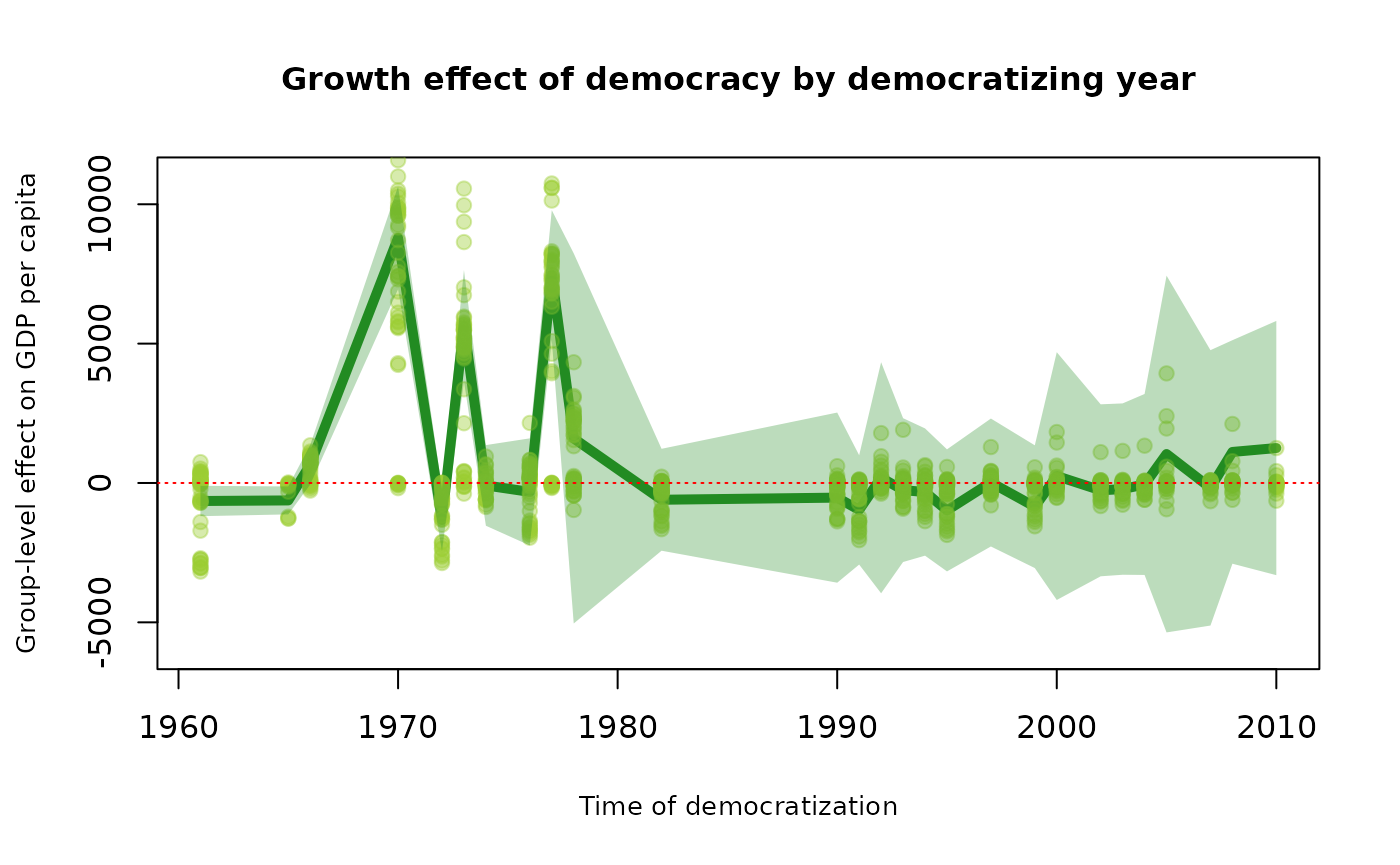
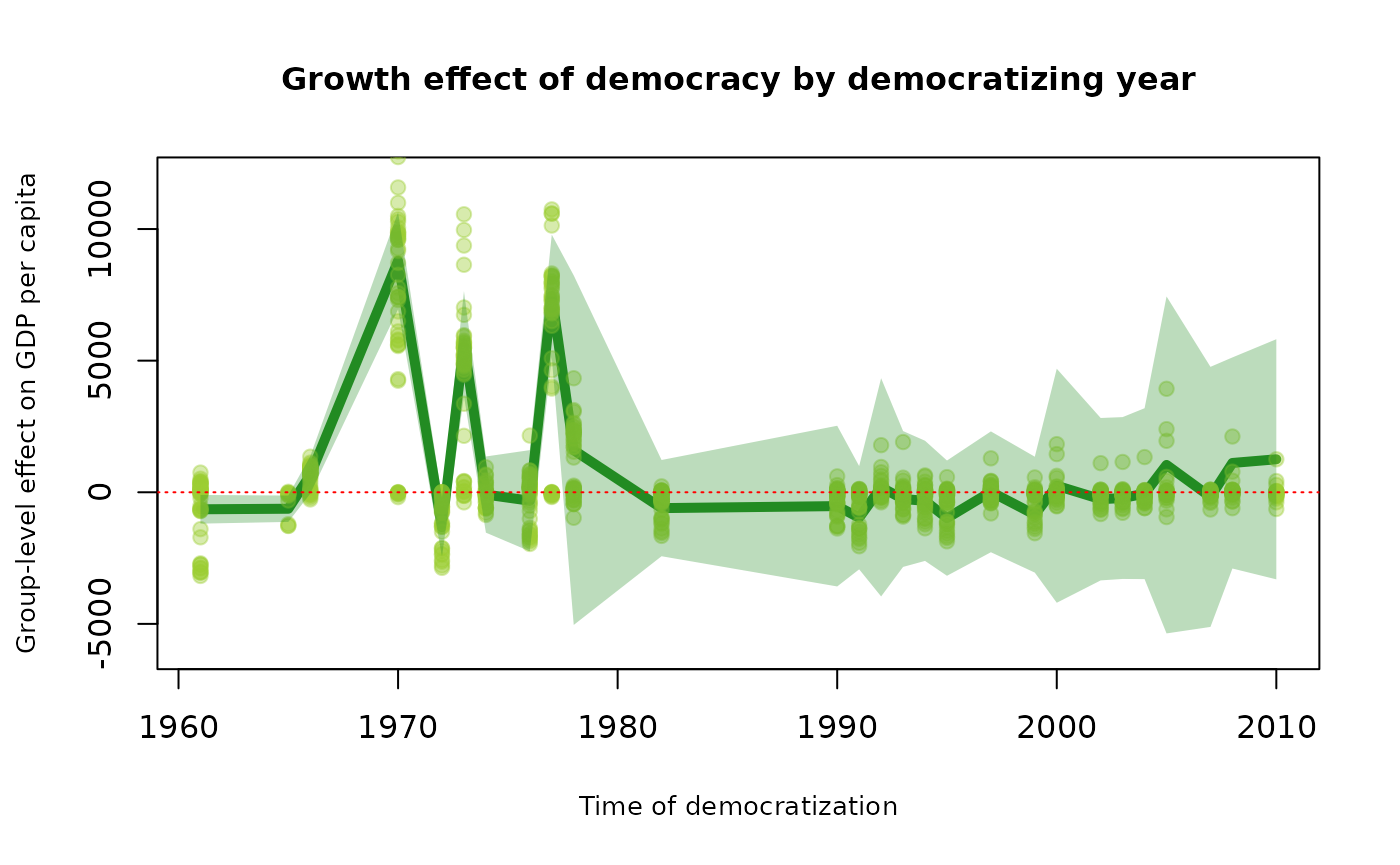
Deploying to gh-pages from @ ransiw/didwrappers@42546798f3a885ff8d297b9c9ec411d032090533 🚀

diff --git a/articles/my-article.html b/articles/my-article.html
@@ -174,7 +174,7 @@ that were aggregated to produce the group-level estimates.</p>
 <div class="sourceCode" id="cb9"><pre class="downlit sourceCode r">
 <code class="sourceCode R"><span><span class="fu"><a href="https://rdrr.io/r/graphics/plot.default.html" class="external-link">plot</a></span><span class="op">(</span><span class="va">group_effects</span><span class="op">$</span><span class="va">egt</span>, <span class="va">group_effects</span><span class="op">$</span><span class="va">att.egt</span>, col<span class="op">=</span><span class="st">"forestgreen"</span>, lwd<span class="op">=</span><span class="fl">5</span>,</span>
 <span>     type <span class="op">=</span> <span class="st">"l"</span>,</span>
-<span>     ylim <span class="op">=</span> <span class="fu"><a href="https://rdrr.io/r/base/c.html" class="external-link">c</a></span><span class="op">(</span><span class="op">-</span><span class="fl">6000</span>,<span class="fl">11000</span><span class="op">)</span>,</span>
+<span>     ylim <span class="op">=</span> <span class="fu"><a href="https://rdrr.io/r/base/c.html" class="external-link">c</a></span><span class="op">(</span><span class="op">-</span><span class="fl">6000</span>,<span class="fl">12000</span><span class="op">)</span>,</span>
 <span>     ylab <span class="op">=</span> <span class="st">"Group-level effect on GDP per capita"</span>,</span>
 <span>     xlab <span class="op">=</span> <span class="st">"Time of democratization"</span>,</span>
 <span>     main <span class="op">=</span> <span class="st">"Growth effect of democracy by democratizing year"</span>,</span>
@@ -267,63 +267,90 @@ group. We could look at this group in the years 1969 and 1970. First we
 look at the treatment group in 1970. There are 5 countries in the
 treatment group.</p>
 <div class="sourceCode" id="cb17"><pre class="downlit sourceCode r">
-<code class="sourceCode R"><span><span class="va">demgdp</span><span class="op">[</span><span class="va">demgdp</span><span class="op">$</span><span class="va">YearFirstDemocracy</span><span class="op">==</span><span class="fl">1970</span> <span class="op">&amp;</span> <span class="va">demgdp</span><span class="op">$</span><span class="va">year</span> <span class="op"><a href="https://rdrr.io/r/base/match.html" class="external-link">%in%</a></span> <span class="fu"><a href="https://rdrr.io/r/base/c.html" class="external-link">c</a></span><span class="op">(</span><span class="fl">1969</span>,<span class="fl">1970</span><span class="op">)</span>,<span class="fl">1</span><span class="op">:</span><span class="fl">5</span><span class="op">]</span></span>
-<span><span class="co">#&gt; <span style="color: #949494;"># A tibble: 6 × 5</span></span></span>
-<span><span class="co">#&gt;   country_name wbcode  year gdppercapitaconstant2000us   dem</span></span>
-<span><span class="co">#&gt;   <span style="color: #949494; font-style: italic;">&lt;chr&gt;</span>        <span style="color: #949494; font-style: italic;">&lt;chr&gt;</span>  <span style="color: #949494; font-style: italic;">&lt;dbl&gt;</span>                      <span style="color: #949494; font-style: italic;">&lt;dbl&gt;</span> <span style="color: #949494; font-style: italic;">&lt;dbl&gt;</span></span></span>
-<span><span class="co">#&gt; <span style="color: #BCBCBC;">1</span> Germany      DEU     <span style="text-decoration: underline;">1</span>970                     <span style="text-decoration: underline;">11</span>895.     1</span></span>
-<span><span class="co">#&gt; <span style="color: #BCBCBC;">2</span> Fiji         FJI     <span style="text-decoration: underline;">1</span>970                      <span style="text-decoration: underline;">1</span>382.     1</span></span>
-<span><span class="co">#&gt; <span style="color: #BCBCBC;">3</span> Ghana        GHA     <span style="text-decoration: underline;">1</span>969                       274.     0</span></span>
-<span><span class="co">#&gt; <span style="color: #BCBCBC;">4</span> Ghana        GHA     <span style="text-decoration: underline;">1</span>970                       294.     1</span></span>
-<span><span class="co">#&gt; <span style="color: #BCBCBC;">5</span> Ireland      IRL     <span style="text-decoration: underline;">1</span>970                      <span style="text-decoration: underline;">7</span>335.     1</span></span>
-<span><span class="co">#&gt; <span style="color: #BCBCBC;">6</span> Malta        MLT     <span style="text-decoration: underline;">1</span>970                      <span style="text-decoration: underline;">1</span>968.     1</span></span></code></pre></div>
+<code class="sourceCode R"><span><span class="va">demgdp</span><span class="op">[</span><span class="va">demgdp</span><span class="op">$</span><span class="va">YearFirstDemocracy</span><span class="op">==</span><span class="fl">1970</span> <span class="op">&amp;</span> <span class="va">demgdp</span><span class="op">$</span><span class="va">year</span> <span class="op"><a href="https://rdrr.io/r/base/match.html" class="external-link">%in%</a></span> <span class="fu"><a href="https://rdrr.io/r/base/c.html" class="external-link">c</a></span><span class="op">(</span><span class="fl">1969</span>,<span class="fl">1970</span><span class="op">)</span>,<span class="fu"><a href="https://rdrr.io/r/base/c.html" class="external-link">c</a></span><span class="op">(</span><span class="fl">1</span><span class="op">:</span><span class="fl">5</span>,<span class="fl">8</span><span class="op">)</span><span class="op">]</span></span>
+<span><span class="co">#&gt; <span style="color: #949494;"># A tibble: 6 × 6</span></span></span>
+<span><span class="co">#&gt;   country_name wbcode  year gdppercapitaconstant2000us   dem wbnum</span></span>
+<span><span class="co">#&gt;   <span style="color: #949494; font-style: italic;">&lt;chr&gt;</span>        <span style="color: #949494; font-style: italic;">&lt;chr&gt;</span>  <span style="color: #949494; font-style: italic;">&lt;dbl&gt;</span>                      <span style="color: #949494; font-style: italic;">&lt;dbl&gt;</span> <span style="color: #949494; font-style: italic;">&lt;dbl&gt;</span> <span style="color: #949494; font-style: italic;">&lt;dbl&gt;</span></span></span>
+<span><span class="co">#&gt; <span style="color: #BCBCBC;">1</span> Germany      DEU     <span style="text-decoration: underline;">1</span>970                     <span style="text-decoration: underline;">11</span>895.     1    41</span></span>
+<span><span class="co">#&gt; <span style="color: #BCBCBC;">2</span> Fiji         FJI     <span style="text-decoration: underline;">1</span>970                      <span style="text-decoration: underline;">1</span>382.     1    54</span></span>
+<span><span class="co">#&gt; <span style="color: #BCBCBC;">3</span> Ghana        GHA     <span style="text-decoration: underline;">1</span>969                       274.     0    59</span></span>
+<span><span class="co">#&gt; <span style="color: #BCBCBC;">4</span> Ghana        GHA     <span style="text-decoration: underline;">1</span>970                       294.     1    59</span></span>
+<span><span class="co">#&gt; <span style="color: #BCBCBC;">5</span> Ireland      IRL     <span style="text-decoration: underline;">1</span>970                      <span style="text-decoration: underline;">7</span>335.     1    74</span></span>
+<span><span class="co">#&gt; <span style="color: #BCBCBC;">6</span> Malta        MLT     <span style="text-decoration: underline;">1</span>970                      <span style="text-decoration: underline;">1</span>968.     1   108</span></span></code></pre></div>
 <p>There are 5 countries that enter the analysis in 1970. However, only
 Ghana is observed pre-democracy. Now consider the countries that might
 be in the control group.</p>
 <div class="sourceCode" id="cb18"><pre class="downlit sourceCode r">
-<code class="sourceCode R"><span><span class="va">demgdp</span><span class="op">[</span><span class="va">demgdp</span><span class="op">$</span><span class="va">YearFirstDemocracy</span><span class="op">==</span><span class="fl">0</span> <span class="op">&amp;</span> <span class="va">demgdp</span><span class="op">$</span><span class="va">year</span> <span class="op"><a href="https://rdrr.io/r/base/match.html" class="external-link">%in%</a></span> <span class="fu"><a href="https://rdrr.io/r/base/c.html" class="external-link">c</a></span><span class="op">(</span><span class="fl">1969</span>,<span class="fl">1970</span><span class="op">)</span>,<span class="fl">1</span><span class="op">:</span><span class="fl">5</span><span class="op">]</span></span>
-<span><span class="co">#&gt; <span style="color: #949494;"># A tibble: 36 × 5</span></span></span>
-<span><span class="co">#&gt;    country_name wbcode  year gdppercapitaconstant2000us   dem</span></span>
-<span><span class="co">#&gt;    <span style="color: #949494; font-style: italic;">&lt;chr&gt;</span>        <span style="color: #949494; font-style: italic;">&lt;chr&gt;</span>  <span style="color: #949494; font-style: italic;">&lt;dbl&gt;</span>                      <span style="color: #949494; font-style: italic;">&lt;dbl&gt;</span> <span style="color: #949494; font-style: italic;">&lt;dbl&gt;</span></span></span>
-<span><span class="co">#&gt; <span style="color: #BCBCBC;"> 1</span> China        CHN     <span style="text-decoration: underline;">1</span>969                       105.     0</span></span>
-<span><span class="co">#&gt; <span style="color: #BCBCBC;"> 2</span> China        CHN     <span style="text-decoration: underline;">1</span>970                       122.     0</span></span>
-<span><span class="co">#&gt; <span style="color: #BCBCBC;"> 3</span> Cameroon     CMR     <span style="text-decoration: underline;">1</span>969                       490.     0</span></span>
-<span><span class="co">#&gt; <span style="color: #BCBCBC;"> 4</span> Cameroon     CMR     <span style="text-decoration: underline;">1</span>970                       493.     0</span></span>
-<span><span class="co">#&gt; <span style="color: #BCBCBC;"> 5</span> Cuba         CUB     <span style="text-decoration: underline;">1</span>970                      <span style="text-decoration: underline;">1</span>778.     0</span></span>
-<span><span class="co">#&gt; <span style="color: #BCBCBC;"> 6</span> Algeria      DZA     <span style="text-decoration: underline;">1</span>969                      <span style="text-decoration: underline;">1</span>359.     0</span></span>
-<span><span class="co">#&gt; <span style="color: #BCBCBC;"> 7</span> Algeria      DZA     <span style="text-decoration: underline;">1</span>970                      <span style="text-decoration: underline;">1</span>436.     0</span></span>
-<span><span class="co">#&gt; <span style="color: #BCBCBC;"> 8</span> Egypt        EGY     <span style="text-decoration: underline;">1</span>969                       549.     0</span></span>
-<span><span class="co">#&gt; <span style="color: #BCBCBC;"> 9</span> Egypt        EGY     <span style="text-decoration: underline;">1</span>970                       566.     0</span></span>
-<span><span class="co">#&gt; <span style="color: #BCBCBC;">10</span> Gabon        GAB     <span style="text-decoration: underline;">1</span>969                      <span style="text-decoration: underline;">3</span>040.     0</span></span>
-<span><span class="co">#&gt; <span style="color: #949494;"># ℹ 26 more rows</span></span></span></code></pre></div>
+<code class="sourceCode R"><span><span class="va">demgdp</span><span class="op">[</span><span class="op">(</span><span class="va">demgdp</span><span class="op">$</span><span class="va">YearFirstDemocracy</span><span class="op">==</span><span class="fl">0</span><span class="op">|</span><span class="va">demgdp</span><span class="op">$</span><span class="va">YearFirstDemocracy</span><span class="op">&gt;</span><span class="fl">1970</span><span class="op">)</span> <span class="op">&amp;</span> <span class="va">demgdp</span><span class="op">$</span><span class="va">year</span> <span class="op"><a href="https://rdrr.io/r/base/match.html" class="external-link">%in%</a></span> <span class="fu"><a href="https://rdrr.io/r/base/c.html" class="external-link">c</a></span><span class="op">(</span><span class="fl">1969</span>,<span class="fl">1970</span><span class="op">)</span>,<span class="fu"><a href="https://rdrr.io/r/base/c.html" class="external-link">c</a></span><span class="op">(</span><span class="fl">1</span><span class="op">:</span><span class="fl">5</span>,<span class="fl">8</span><span class="op">)</span><span class="op">]</span></span>
+<span><span class="co">#&gt; <span style="color: #949494;"># A tibble: 106 × 6</span></span></span>
+<span><span class="co">#&gt;    country_name wbcode  year gdppercapitaconstant2000us   dem wbnum</span></span>
+<span><span class="co">#&gt;    <span style="color: #949494; font-style: italic;">&lt;chr&gt;</span>        <span style="color: #949494; font-style: italic;">&lt;chr&gt;</span>  <span style="color: #949494; font-style: italic;">&lt;dbl&gt;</span>                      <span style="color: #949494; font-style: italic;">&lt;dbl&gt;</span> <span style="color: #949494; font-style: italic;">&lt;dbl&gt;</span> <span style="color: #949494; font-style: italic;">&lt;dbl&gt;</span></span></span>
+<span><span class="co">#&gt; <span style="color: #BCBCBC;"> 1</span> Argentina    ARG     <span style="text-decoration: underline;">1</span>969                      <span style="text-decoration: underline;">6</span>515.     0     3</span></span>
+<span><span class="co">#&gt; <span style="color: #BCBCBC;"> 2</span> Argentina    ARG     <span style="text-decoration: underline;">1</span>970                      <span style="text-decoration: underline;">6</span>611.     0     3</span></span>
+<span><span class="co">#&gt; <span style="color: #BCBCBC;"> 3</span> Burundi      BDI     <span style="text-decoration: underline;">1</span>969                       106.     0     9</span></span>
+<span><span class="co">#&gt; <span style="color: #BCBCBC;"> 4</span> Burundi      BDI     <span style="text-decoration: underline;">1</span>970                       127.     0     9</span></span>
+<span><span class="co">#&gt; <span style="color: #BCBCBC;"> 5</span> Benin        BEN     <span style="text-decoration: underline;">1</span>969                       292.     0    11</span></span>
+<span><span class="co">#&gt; <span style="color: #BCBCBC;"> 6</span> Benin        BEN     <span style="text-decoration: underline;">1</span>970                       292.     0    11</span></span>
+<span><span class="co">#&gt; <span style="color: #BCBCBC;"> 7</span> Burkina Faso BFA     <span style="text-decoration: underline;">1</span>969                       139.     0    12</span></span>
+<span><span class="co">#&gt; <span style="color: #BCBCBC;"> 8</span> Burkina Faso BFA     <span style="text-decoration: underline;">1</span>970                       137.     0    12</span></span>
+<span><span class="co">#&gt; <span style="color: #BCBCBC;"> 9</span> Bolivia      BOL     <span style="text-decoration: underline;">1</span>969                       954.     0    20</span></span>
+<span><span class="co">#&gt; <span style="color: #BCBCBC;">10</span> Bolivia      BOL     <span style="text-decoration: underline;">1</span>970                       927.     0    20</span></span>
+<span><span class="co">#&gt; <span style="color: #949494;"># ℹ 96 more rows</span></span></span></code></pre></div>
 <p>Swaziland and Cuba are observed only in 1970. Otherwise, all other
-countries are observed across both years.</p>
+countries in the control group in 1970 are observed across both
+years.</p>
+<p>Here are the estimates, and counts from the <code>didwrappers</code>
+package for the 1969-1970 and the 1969-1971 differences-in-differences
+estimate.</p>
+<div class="sourceCode" id="cb19"><pre class="downlit sourceCode r">
+<code class="sourceCode R"><span><span class="fu"><a href="../reference/attit_table.html">attit_table</a></span><span class="op">(</span><span class="va">out_it</span><span class="op">)</span><span class="op">[</span><span class="va">out_it</span><span class="op">$</span><span class="va">group</span><span class="op">==</span><span class="fl">1970</span> <span class="op">&amp;</span> <span class="va">out_it</span><span class="op">$</span><span class="va">t</span> <span class="op"><a href="https://rdrr.io/r/base/match.html" class="external-link">%in%</a></span> <span class="fu"><a href="https://rdrr.io/r/base/c.html" class="external-link">c</a></span><span class="op">(</span><span class="fl">1970</span>,<span class="fl">1971</span><span class="op">)</span>,<span class="fu"><a href="https://rdrr.io/r/base/c.html" class="external-link">c</a></span><span class="op">(</span><span class="st">"id"</span>,<span class="st">"group"</span>,<span class="st">"t"</span>,<span class="st">"att"</span>,<span class="st">"count"</span><span class="op">)</span><span class="op">]</span></span>
+<span><span class="co">#&gt;       id group    t        att count</span></span>
+<span><span class="co">#&gt; 1210  41  1970 1970         NA     0</span></span>
+<span><span class="co">#&gt; 1211  41  1970 1971         NA     0</span></span>
+<span><span class="co">#&gt; 1560  54  1970 1970         NA     0</span></span>
+<span><span class="co">#&gt; 1561  54  1970 1971         NA     0</span></span>
+<span><span class="co">#&gt; 1660  59  1970 1970  -53.40957    53</span></span>
+<span><span class="co">#&gt; 1661  59  1970 1971 -111.43377    53</span></span>
+<span><span class="co">#&gt; 2260  74  1970 1970         NA     0</span></span>
+<span><span class="co">#&gt; 2261  74  1970 1971         NA     0</span></span>
+<span><span class="co">#&gt; 3160 108  1970 1970         NA     0</span></span>
+<span><span class="co">#&gt; 3161 108  1970 1971         NA     0</span></span></code></pre></div>
+<p>The <code>did</code> package doesn’t produce the counts, but the
+corresponding estimates for the 1969-1970, and 1969-1971
+differences-in-differences estimates are</p>
+<div class="sourceCode" id="cb20"><pre class="downlit sourceCode r">
+<code class="sourceCode R"><span><span class="va">dfit</span> <span class="op">=</span> <span class="fu"><a href="https://rdrr.io/r/base/data.frame.html" class="external-link">data.frame</a></span><span class="op">(</span>group<span class="op">=</span><span class="va">out</span><span class="op">$</span><span class="va">group</span>,t<span class="op">=</span><span class="va">out</span><span class="op">$</span><span class="va">t</span>,att<span class="op">=</span><span class="va">out</span><span class="op">$</span><span class="va">att</span><span class="op">)</span></span>
+<span><span class="va">dfit</span><span class="op">[</span><span class="va">dfit</span><span class="op">$</span><span class="va">group</span><span class="op">==</span><span class="fl">1970</span> <span class="op">&amp;</span> <span class="va">dfit</span><span class="op">$</span><span class="va">t</span> <span class="op"><a href="https://rdrr.io/r/base/match.html" class="external-link">%in%</a></span> <span class="fu"><a href="https://rdrr.io/r/base/c.html" class="external-link">c</a></span><span class="op">(</span><span class="fl">1970</span>,<span class="fl">1971</span><span class="op">)</span>,<span class="op">]</span></span>
+<span><span class="co">#&gt;     group    t      att</span></span>
+<span><span class="co">#&gt; 210  1970 1970 4236.862</span></span>
+<span><span class="co">#&gt; 211  1970 1971 4297.849</span></span></code></pre></div>
 <p>The 1969-1970 difference-in-difference estimates suffer from a severe
-case of imbalance. The <code>did</code> estimates use all 5 countries in
-the 1970 group. But the <code>didwrappers</code> estimates only use
+case of imbalance. The <code>did</code> algorithm uses all 5 countries
+in the 1970 group. But the <code>didwrappers</code> estimates only use
 Ghana in the group because it is the only country that is observed both
 in 1960 and 1970. The instantaneous effect for the <code>did</code>
 estimate is calculated by differencing against only the 1969 value in
 Ghana, resulting in a large positive effect for this group as richer
 countries such as Germany and Ireland suddenly appear in 1970 without
 being seen in 1969.</p>
-<p>Which type of estimator is more appropriate depends on the level of
-balanced in the data. With unbalanced data, the <code>did</code>
+<p>Which type of estimator is more appropriate depends on the
+balancedness in the data. With unbalanced data, the <code>did</code>
 algorithm implements a repeated cross-section type of analysis. There,
 the composition of the treatment group pre- and post-treatment does not
 have to be equal. This is appropriate in individual-level records
-because heterogeneity across individuals are likely to be minimal. In
-the case of countries, such an assumption may be too strong. Ghana and
-Germany are quite different to each other. In the case of Germany
+because heterogeneity across individuals are likely to be minimal. In an
+application with countries, such an assumption may be too strong. Ghana
+and Germany are quite different to each other. In the case of Germany
 (refers to West Germany), its entry into the sample is not the same as
 democratization. A more serious analysis of democratization would need
 to check each of the dates in <code>YearFirstDemocracy</code>. This
 consideration matters for the control group as well. In this particular
 case, only two countries suddenly appear in 1970, so the effect of
 imbalance is small.</p>
-<p>Ensuring the composition of units pre- and post-treatment are the
-same results in sample losses. In this case, Germany, Fiji, Ireland, and
-Malta will all be lost. This is an important trade-off to consider.</p>
+<p>Ensuring the composition of units pre- and post-treatment is equal
+results in sample losses. In this case, Germany, Fiji, Ireland, and
+Malta will all be lost due to lack of pre-treatment information. This is
+an important trade-off to consider.</p>
 </div>
   </main><aside class="col-md-3"><nav id="toc" aria-label="Table of contents"><h2>On this page</h2>
     </nav></aside>

diff --git a/index.html b/index.html
@@ -78,63 +78,63 @@
 <div class="sourceCode" id="cb3"><pre class="downlit sourceCode r">
 <code class="sourceCode R"><span><span class="va">simdata</span> <span class="op">=</span> <span class="fu"><a href="reference/sim_data.html">sim_data</a></span><span class="op">(</span><span class="op">)</span></span>
 <span><span class="fu"><a href="https://rdrr.io/r/utils/head.html" class="external-link">head</a></span><span class="op">(</span><span class="va">simdata</span><span class="op">[</span>,<span class="fu"><a href="https://rdrr.io/r/base/c.html" class="external-link">c</a></span><span class="op">(</span><span class="st">"unit"</span>,<span class="st">"time"</span>,<span class="st">"treatg"</span>,<span class="st">"dosage"</span>,<span class="st">"y"</span><span class="op">)</span><span class="op">]</span><span class="op">)</span></span>
-<span><span class="co">#&gt;   unit time treatg dosage           y</span></span>
-<span><span class="co">#&gt; 1    1    5     10      1 -0.06318495</span></span>
-<span><span class="co">#&gt; 2    1    6     10      1  2.22046460</span></span>
-<span><span class="co">#&gt; 3    1    7     10      1  4.21131837</span></span>
-<span><span class="co">#&gt; 4    1    8     10      1  6.44301096</span></span>
-<span><span class="co">#&gt; 5    1    9     10      1  9.72687332</span></span>
-<span><span class="co">#&gt; 6    1   10     10      1 19.44497982</span></span></code></pre></div>
+<span><span class="co">#&gt;   unit time treatg dosage         y</span></span>
+<span><span class="co">#&gt; 1    1    5     10      1 -1.682864</span></span>
+<span><span class="co">#&gt; 2    1    6     10      1  2.823592</span></span>
+<span><span class="co">#&gt; 3    1    7     10      1  4.233826</span></span>
+<span><span class="co">#&gt; 4    1    8     10      1  5.557872</span></span>
+<span><span class="co">#&gt; 5    1    9     10      1  7.037021</span></span>
+<span><span class="co">#&gt; 6    1   10     10      1 19.481944</span></span></code></pre></div>
 <p>Run an att_it() object and tabulate it</p>
 <div class="sourceCode" id="cb4"><pre class="downlit sourceCode r">
 <code class="sourceCode R"><span><span class="va">attobject</span> <span class="op">=</span> <span class="fu"><a href="reference/att_it.html">att_it</a></span><span class="op">(</span>yname <span class="op">=</span> <span class="st">"y"</span>, tname <span class="op">=</span> <span class="st">"time"</span>, gname <span class="op">=</span> <span class="st">"treatg"</span>, idname <span class="op">=</span><span class="st">"unit"</span>, data <span class="op">=</span> <span class="va">simdata</span><span class="op">)</span></span>
 <span><span class="va">attdf</span> <span class="op">=</span> <span class="fu"><a href="reference/attit_table.html">attit_table</a></span><span class="op">(</span><span class="va">attobject</span><span class="op">)</span></span>
-<span><span class="fu"><a href="https://rdrr.io/r/utils/head.html" class="external-link">head</a></span><span class="op">(</span><span class="va">attdf</span><span class="op">)</span></span>
-<span><span class="co">#&gt;   id group  t         att        se     attcalc    ipwqual      lowci    highci</span></span>
-<span><span class="co">#&gt; 1  1    10  6 -0.04797318 0.3582682 -0.04797318 0.04761905 -1.0704969 0.9745505</span></span>
-<span><span class="co">#&gt; 2  1    10  7  0.28811525 0.3070530  0.28811525 0.04761905 -0.5882365 1.1644671</span></span>
-<span><span class="co">#&gt; 3  1    10  8  0.25868283 0.3500318  0.25868283 0.04761905 -0.7403336 1.2576993</span></span>
-<span><span class="co">#&gt; 4  1    10  9  1.40103870 0.2972334  1.40103870 0.04761905  0.5527130 2.2493644</span></span>
-<span><span class="co">#&gt; 5  1    10 10  7.34800732 0.3278986  7.34800732 0.04761905  6.4121606 8.2838540</span></span>
-<span><span class="co">#&gt; 6  1    10 11  8.79452788 0.3113672  8.79452788 0.04761905  7.9058632 9.6831925</span></span></code></pre></div>
+<span><span class="fu"><a href="https://rdrr.io/r/utils/head.html" class="external-link">head</a></span><span class="op">(</span><span class="va">attdf</span><span class="op">[</span>,<span class="fl">1</span><span class="op">:</span><span class="fl">7</span><span class="op">]</span><span class="op">)</span></span>
+<span><span class="co">#&gt;   id group  t        att        se    attcalc    ipwqual</span></span>
+<span><span class="co">#&gt; 1  1    10  6  2.2019412 0.3647034  2.2019412 0.04761905</span></span>
+<span><span class="co">#&gt; 2  1    10  7 -0.7124275 0.3427465 -0.7124275 0.04761905</span></span>
+<span><span class="co">#&gt; 3  1    10  8 -0.4978671 0.3699245 -0.4978671 0.04761905</span></span>
+<span><span class="co">#&gt; 4  1    10  9 -0.5868508 0.3838006 -0.5868508 0.04761905</span></span>
+<span><span class="co">#&gt; 5  1    10 10 10.1770026 0.2593637 10.1770026 0.04761905</span></span>
+<span><span class="co">#&gt; 6  1    10 11  9.1755694 0.2872384  9.1755694 0.04761905</span></span></code></pre></div>
 <p>We can now aggregate all post-treatment effects to the unit level.</p>
 <div class="sourceCode" id="cb5"><pre class="downlit sourceCode r">
 <code class="sourceCode R"><span><span class="va">agtobject</span> <span class="op">=</span> <span class="fu"><a href="reference/aggite.html">aggite</a></span><span class="op">(</span><span class="va">attobject</span>,type<span class="op">=</span><span class="st">"unit"</span><span class="op">)</span></span>
 <span><span class="fu"><a href="reference/aggite_table.html">aggite_table</a></span><span class="op">(</span><span class="va">agtobject</span><span class="op">)</span></span>
 <span><span class="co">#&gt;    egt   att.egt    se.egt     lowci    highci</span></span>
-<span><span class="co">#&gt; 1    1  8.404469 0.2127174  7.934953  8.873986</span></span>
-<span><span class="co">#&gt; 2    2  9.454916 0.1922370  9.030605  9.879228</span></span>
-<span><span class="co">#&gt; 3    3 10.306823 0.2152879  9.831633 10.782013</span></span>
-<span><span class="co">#&gt; 4    4 10.214076 0.1998244  9.773018 10.655135</span></span>
-<span><span class="co">#&gt; 5    5  9.393001 0.2118405  8.925420  9.860581</span></span>
-<span><span class="co">#&gt; 6    6 10.872406 0.2042690 10.421537 11.323274</span></span>
-<span><span class="co">#&gt; 7    7  9.326678 0.2170932  8.847504  9.805853</span></span>
-<span><span class="co">#&gt; 8    8 12.351097 0.2000748 11.909485 12.792708</span></span>
-<span><span class="co">#&gt; 9    9  9.134421 0.2160083  8.657641  9.611201</span></span>
-<span><span class="co">#&gt; 10  10  8.115082 0.2053938  7.661731  8.568433</span></span></code></pre></div>
+<span><span class="co">#&gt; 1    1 10.913376 0.2231014 10.456225 11.370527</span></span>
+<span><span class="co">#&gt; 2    2 13.097818 0.2376098 12.610938 13.584697</span></span>
+<span><span class="co">#&gt; 3    3  8.442448 0.2247835  7.981851  8.903046</span></span>
+<span><span class="co">#&gt; 4    4  9.468401 0.2490680  8.958043  9.978759</span></span>
+<span><span class="co">#&gt; 5    5  7.924238 0.2407734  7.430876  8.417600</span></span>
+<span><span class="co">#&gt; 6    6  8.617983 0.2309662  8.144716  9.091249</span></span>
+<span><span class="co">#&gt; 7    7  9.499252 0.2453372  8.996539 10.001966</span></span>
+<span><span class="co">#&gt; 8    8  9.724732 0.2579821  9.196108 10.253356</span></span>
+<span><span class="co">#&gt; 9    9 13.078300 0.2407867 12.584911 13.571689</span></span>
+<span><span class="co">#&gt; 10  10  9.673283 0.2333813  9.195068 10.151498</span></span></code></pre></div>
 <p>Now sample a data frame with different dosage amounts and aggregate to the unit level.</p>
 <div class="sourceCode" id="cb6"><pre class="downlit sourceCode r">
 <code class="sourceCode R"><span><span class="va">attobject</span> <span class="op">=</span> <span class="fu"><a href="reference/att_it.html">att_it</a></span><span class="op">(</span>yname <span class="op">=</span> <span class="st">"y"</span>, tname <span class="op">=</span> <span class="st">"time"</span>, gname <span class="op">=</span> <span class="st">"treatg"</span>, idname <span class="op">=</span><span class="st">"unit"</span>, cohortnames <span class="op">=</span> <span class="st">"dosage"</span>, data <span class="op">=</span> <span class="fu"><a href="reference/sim_data.html">sim_data</a></span><span class="op">(</span>dosage <span class="op">=</span> <span class="fu"><a href="https://rdrr.io/r/base/rep.html" class="external-link">rep</a></span><span class="op">(</span><span class="fu"><a href="https://rdrr.io/r/base/c.html" class="external-link">c</a></span><span class="op">(</span><span class="fl">1</span>,<span class="fl">2</span><span class="op">)</span>,each<span class="op">=</span><span class="fl">5</span><span class="op">)</span><span class="op">)</span><span class="op">)</span></span>
 <span><span class="va">agtobject</span> <span class="op">=</span> <span class="fu"><a href="reference/aggite.html">aggite</a></span><span class="op">(</span><span class="va">attobject</span>,type<span class="op">=</span><span class="st">"unit"</span><span class="op">)</span></span>
 <span><span class="fu"><a href="reference/aggite_table.html">aggite_table</a></span><span class="op">(</span><span class="va">agtobject</span><span class="op">)</span></span>
 <span><span class="co">#&gt;    egt   att.egt    se.egt     lowci    highci</span></span>
-<span><span class="co">#&gt; 1    1 10.097536 0.2489815  9.578841 10.616232</span></span>
-<span><span class="co">#&gt; 2    2  9.895154 0.3014619  9.267128 10.523180</span></span>
-<span><span class="co">#&gt; 3    3  7.847296 0.2559204  7.314145  8.380447</span></span>
-<span><span class="co">#&gt; 4    4 11.248098 0.2993426 10.624487 11.871710</span></span>
-<span><span class="co">#&gt; 5    5  9.585272 0.2590297  9.045644 10.124901</span></span>
-<span><span class="co">#&gt; 6    6 21.197248 0.2995467 20.573212 21.821284</span></span>
-<span><span class="co">#&gt; 7    7 20.467182 0.2431943 19.960542 20.973821</span></span>
-<span><span class="co">#&gt; 8    8 18.089222 0.3248534 17.412465 18.765979</span></span>
-<span><span class="co">#&gt; 9    9 18.854548 0.2435407 18.347187 19.361909</span></span>
-<span><span class="co">#&gt; 10  10 18.527270 0.2945913 17.913557 19.140983</span></span></code></pre></div>
+<span><span class="co">#&gt; 1    1  9.738682 0.2074943  9.320704 10.156660</span></span>
+<span><span class="co">#&gt; 2    2 10.268772 0.2226722  9.820220 10.717325</span></span>
+<span><span class="co">#&gt; 3    3  9.277046 0.1923937  8.889487  9.664605</span></span>
+<span><span class="co">#&gt; 4    4  9.606105 0.2419563  9.118707 10.093504</span></span>
+<span><span class="co">#&gt; 5    5  9.425413 0.1976163  9.027333  9.823492</span></span>
+<span><span class="co">#&gt; 6    6 20.668759 0.2342785 20.196827 21.140691</span></span>
+<span><span class="co">#&gt; 7    7 20.129250 0.1897136 19.747089 20.511410</span></span>
+<span><span class="co">#&gt; 8    8 18.819633 0.2619434 18.291973 19.347294</span></span>
+<span><span class="co">#&gt; 9    9 19.720983 0.2015420 19.314996 20.126971</span></span>
+<span><span class="co">#&gt; 10  10 21.742343 0.2289798 21.281084 22.203601</span></span></code></pre></div>
 <p>We could also aggregate to the dosage level by specifying dosage as the <code>type</code>.</p>
 <div class="sourceCode" id="cb7"><pre class="downlit sourceCode r">
 <code class="sourceCode R"><span><span class="va">agtobject</span> <span class="op">=</span> <span class="fu"><a href="reference/aggite.html">aggite</a></span><span class="op">(</span><span class="va">attobject</span>,type<span class="op">=</span><span class="st">"dosage"</span><span class="op">)</span></span>
 <span><span class="fu"><a href="reference/aggite_table.html">aggite_table</a></span><span class="op">(</span><span class="va">agtobject</span><span class="op">)</span></span>
-<span><span class="co">#&gt;   egt   att.egt    se.egt     lowci   highci</span></span>
-<span><span class="co">#&gt; 1   1  9.646571 0.1992635  9.251264 10.04188</span></span>
-<span><span class="co">#&gt; 2   2 19.453069 0.2035187 19.049321 19.85682</span></span></code></pre></div>
+<span><span class="co">#&gt;   egt   att.egt    se.egt     lowci    highci</span></span>
+<span><span class="co">#&gt; 1   1  9.634337 0.1340298  9.351016  9.917658</span></span>
+<span><span class="co">#&gt; 2   2 20.183852 0.1275047 19.914324 20.453380</span></span></code></pre></div>
 <p>The functions can also accommodate unbalancedness. We can impose unbalancedness in simulated data. For example we could drop the first unit before time period 11, which essentially eliminates the unit.</p>
 <div class="sourceCode" id="cb8"><pre class="downlit sourceCode r">
 <code class="sourceCode R"><span><span class="va">simdata</span> <span class="op">=</span> <span class="fu"><a href="reference/sim_data.html">sim_data</a></span><span class="op">(</span><span class="op">)</span></span>
@@ -146,15 +146,15 @@
 <code class="sourceCode R"><span><span class="va">agtobject</span> <span class="op">=</span> <span class="fu"><a href="reference/aggite.html">aggite</a></span><span class="op">(</span><span class="va">attobject</span>,type<span class="op">=</span><span class="st">"unit"</span>, na.rm <span class="op">=</span> <span class="cn">TRUE</span><span class="op">)</span></span>
 <span><span class="fu"><a href="reference/aggite_table.html">aggite_table</a></span><span class="op">(</span><span class="va">agtobject</span><span class="op">)</span></span>
 <span><span class="co">#&gt;   egt   att.egt    se.egt     lowci    highci</span></span>
-<span><span class="co">#&gt; 1   2  9.274623 0.2149594  8.812215  9.737030</span></span>
-<span><span class="co">#&gt; 2   3 10.754198 0.2538130 10.208211 11.300185</span></span>
-<span><span class="co">#&gt; 3   4 11.333543 0.2189885 10.862468 11.804618</span></span>
-<span><span class="co">#&gt; 4   5  9.275298 0.2507500  8.735900  9.814696</span></span>
-<span><span class="co">#&gt; 5   6  9.456229 0.2234667  8.975521  9.936937</span></span>
-<span><span class="co">#&gt; 6   7  8.433401 0.2580149  7.878375  8.988427</span></span>
-<span><span class="co">#&gt; 7   8 10.277068 0.2113411  9.822444 10.731693</span></span>
-<span><span class="co">#&gt; 8   9 11.190208 0.2631521 10.624131 11.756284</span></span>
-<span><span class="co">#&gt; 9  10 10.094596 0.2348203  9.589465 10.599727</span></span></code></pre></div>
+<span><span class="co">#&gt; 1   2  9.599405 0.1902648  9.190005 10.008805</span></span>
+<span><span class="co">#&gt; 2   3 10.540529 0.2443381 10.014778 11.066280</span></span>
+<span><span class="co">#&gt; 3   4  9.942616 0.2110172  9.488563 10.396670</span></span>
+<span><span class="co">#&gt; 4   5  8.529358 0.2544047  7.981946  9.076770</span></span>
+<span><span class="co">#&gt; 5   6  9.246343 0.1933400  8.830326  9.662360</span></span>
+<span><span class="co">#&gt; 6   7  7.755309 0.2534030  7.210052  8.300565</span></span>
+<span><span class="co">#&gt; 7   8  9.904934 0.2041546  9.465647 10.344221</span></span>
+<span><span class="co">#&gt; 8   9 10.738400 0.2728065 10.151392 11.325408</span></span>
+<span><span class="co">#&gt; 9  10  9.714657 0.2123501  9.257735 10.171578</span></span></code></pre></div>
 <p>We could also consider the effect of truncation of the outcome variable at 100. Truncation will affect units whose baselevels are high.</p>
 <div class="sourceCode" id="cb10"><pre class="downlit sourceCode r">
 <code class="sourceCode R"><span><span class="va">simdata</span> <span class="op">=</span> <span class="fu"><a href="reference/sim_data.html">sim_data</a></span><span class="op">(</span><span class="op">)</span></span>
@@ -179,16 +179,16 @@
 <span><span class="co">#&gt; confidence intervals</span></span>
 <span><span class="fu"><a href="reference/aggite_table.html">aggite_table</a></span><span class="op">(</span><span class="va">agtobject</span><span class="op">)</span></span>
 <span><span class="co">#&gt;    egt    att.egt   se.egt      lowci    highci</span></span>
-<span><span class="co">#&gt; 1    1  13.960746 1.277247  11.457388 16.464103</span></span>
-<span><span class="co">#&gt; 2    2  13.283346 1.438058  10.464803 16.101888</span></span>
-<span><span class="co">#&gt; 3    3  13.406250 1.350825  10.758682 16.053818</span></span>
-<span><span class="co">#&gt; 4    4  12.809787 1.477327   9.914280 15.705295</span></span>
-<span><span class="co">#&gt; 5    5  11.578988 1.329703   8.972819 14.185157</span></span>
-<span><span class="co">#&gt; 6    6  13.437012 1.439722  10.615209 16.258814</span></span>
-<span><span class="co">#&gt; 7    7   7.908859 1.390323   5.183877 10.633842</span></span>
-<span><span class="co">#&gt; 8    8   6.396100 1.470667   3.513646  9.278554</span></span>
-<span><span class="co">#&gt; 9    9  -6.285585 1.320529  -8.873774 -3.697396</span></span>
-<span><span class="co">#&gt; 10  10 -11.360833 1.504928 -14.310437 -8.411228</span></span></code></pre></div>
+<span><span class="co">#&gt; 1    1  14.370083 1.374298  11.676509 17.063657</span></span>
+<span><span class="co">#&gt; 2    2  13.531035 1.420832  10.746255 16.315815</span></span>
+<span><span class="co">#&gt; 3    3  15.911100 1.370176  13.225604 18.596596</span></span>
+<span><span class="co">#&gt; 4    4  15.941756 1.431398  13.136269 18.747244</span></span>
+<span><span class="co">#&gt; 5    5  12.895077 1.377833  10.194575 15.595580</span></span>
+<span><span class="co">#&gt; 6    6  13.185333 1.388983  10.462976 15.907690</span></span>
+<span><span class="co">#&gt; 7    7   8.431472 1.379588   5.727530 11.135414</span></span>
+<span><span class="co">#&gt; 8    8   7.363971 1.400483   4.619076 10.108867</span></span>
+<span><span class="co">#&gt; 9    9  -5.125133 1.445498  -7.958258 -2.292008</span></span>
+<span><span class="co">#&gt; 10  10 -10.756602 1.439604 -13.578174 -7.935029</span></span></code></pre></div>
 <p>Units 9 and 10 have negative estimates caused by the truncation. This could be alleviated by matching units at the baseline levels as follows.</p>
 <div class="sourceCode" id="cb12"><pre class="downlit sourceCode r">
 <code class="sourceCode R"><span><span class="va">attobject</span> <span class="op">=</span> <span class="fu"><a href="reference/att_it.html">att_it</a></span><span class="op">(</span>yname <span class="op">=</span> <span class="st">"y"</span>, tname <span class="op">=</span> <span class="st">"time"</span>, gname <span class="op">=</span> <span class="st">"treatg"</span>, idname <span class="op">=</span><span class="st">"unit"</span>, panel <span class="op">=</span> <span class="cn">FALSE</span>, xformla <span class="op">=</span> <span class="op">~</span><span class="va">y</span>, data <span class="op">=</span> <span class="va">simdata</span><span class="op">)</span></span>
@@ -197,16 +197,16 @@
 <span><span class="va">agtobject</span> <span class="op">=</span> <span class="fu"><a href="reference/aggite.html">aggite</a></span><span class="op">(</span><span class="va">attobject</span>,type<span class="op">=</span><span class="st">"unit"</span>, na.rm <span class="op">=</span> <span class="cn">TRUE</span><span class="op">)</span></span>
 <span><span class="fu"><a href="reference/aggite_table.html">aggite_table</a></span><span class="op">(</span><span class="va">agtobject</span><span class="op">)</span></span>
 <span><span class="co">#&gt;    egt    att.egt    se.egt       lowci    highci</span></span>
-<span><span class="co">#&gt; 1    1 11.1548668 0.3097723 10.45098809 11.858745</span></span>
-<span><span class="co">#&gt; 2    2  8.7570181 0.3557478  7.94867190  9.565364</span></span>
-<span><span class="co">#&gt; 3    3 10.8288530 0.4946050  9.70498913 11.952717</span></span>
-<span><span class="co">#&gt; 4    4  9.8540073 0.4345221  8.86666652 10.841348</span></span>
-<span><span class="co">#&gt; 5    5 11.4457720 0.8256130  9.56977670 13.321767</span></span>
-<span><span class="co">#&gt; 6    6 13.1382810 0.8803178 11.13798294 15.138579</span></span>
-<span><span class="co">#&gt; 7    7 11.3160279 1.1273706  8.75436530 13.877690</span></span>
-<span><span class="co">#&gt; 8    8 10.3944973 0.9976251  8.12764828 12.661346</span></span>
-<span><span class="co">#&gt; 9    9  3.5383362 0.8069551  1.70473635  5.371936</span></span>
-<span><span class="co">#&gt; 10  10  0.5079861 0.2199442  0.00821891  1.007753</span></span></code></pre></div>
+<span><span class="co">#&gt; 1    1 11.3161207 0.2217000 10.81898111 11.813260</span></span>
+<span><span class="co">#&gt; 2    2  9.3838194 0.2698139  8.77878937  9.988849</span></span>
+<span><span class="co">#&gt; 3    3 13.2608120 0.3384556 12.50186000 14.019764</span></span>
+<span><span class="co">#&gt; 4    4 12.9413845 0.4113505 12.01897316 13.863796</span></span>
+<span><span class="co">#&gt; 5    5 12.6162939 0.8810554 10.64061755 14.591970</span></span>
+<span><span class="co">#&gt; 6    6 12.9312819 0.8260141 11.07903003 14.783534</span></span>
+<span><span class="co">#&gt; 7    7 11.8035206 1.1485902  9.22792507 14.379116</span></span>
+<span><span class="co">#&gt; 8    8 11.0521524 1.0213119  8.76196527 13.342340</span></span>
+<span><span class="co">#&gt; 9    9  4.3248216 0.8433345  2.43373054  6.215913</span></span>
+<span><span class="co">#&gt; 10  10  0.7089733 0.2830933  0.07416559  1.343781</span></span></code></pre></div>
 </div>
 </div>
   </main><aside class="col-md-3"><div class="links">

diff --git a/articles/comparison_with_did.html b/articles/comparison_with_did.html
@@ -98,7 +98,7 @@ the run times.</p>
 <span>              <span class="op">)</span></span>
 <span><span class="va">endt</span> <span class="op">=</span> <span class="fu"><a href="https://rdrr.io/r/base/Sys.time.html" class="external-link">Sys.time</a></span><span class="op">(</span><span class="op">)</span></span>
 <span><span class="fu"><a href="https://rdrr.io/r/base/print.html" class="external-link">print</a></span><span class="op">(</span><span class="fu"><a href="https://rdrr.io/r/base/paste.html" class="external-link">paste</a></span><span class="op">(</span><span class="st">"Time elapsed:"</span>,<span class="va">endt</span><span class="op">-</span><span class="va">startt</span>,<span class="st">"seconds"</span><span class="op">)</span><span class="op">)</span></span>
-<span><span class="co">#&gt; [1] "Time elapsed: 0.748574018478394 seconds"</span></span></code></pre></div>
+<span><span class="co">#&gt; [1] "Time elapsed: 0.727385997772217 seconds"</span></span></code></pre></div>
 <p>The <code>didwrappers</code> package produces a similar object but at
 the more granular unit-time level. This takes longer to run. The syntax
 remains the same, only the function name should need to change.</p>
@@ -114,7 +114,7 @@ remains the same, only the function name should need to change.</p>
 <span>              <span class="op">)</span></span>
 <span><span class="va">endt</span> <span class="op">=</span> <span class="fu"><a href="https://rdrr.io/r/base/Sys.time.html" class="external-link">Sys.time</a></span><span class="op">(</span><span class="op">)</span></span>
 <span><span class="fu"><a href="https://rdrr.io/r/base/print.html" class="external-link">print</a></span><span class="op">(</span><span class="fu"><a href="https://rdrr.io/r/base/paste.html" class="external-link">paste</a></span><span class="op">(</span><span class="st">"Time elapsed:"</span>,<span class="va">endt</span><span class="op">-</span><span class="va">startt</span>,<span class="st">"seconds"</span><span class="op">)</span><span class="op">)</span></span>
-<span><span class="co">#&gt; [1] "Time elapsed: 6.58424735069275 seconds"</span></span></code></pre></div>
+<span><span class="co">#&gt; [1] "Time elapsed: 6.63932919502258 seconds"</span></span></code></pre></div>
 <p>It takes quite a bit longer to do things at the county-level than at
 the group level, which is the year that minimum wage is raised. There
 are certain advantages to having the more disaggregate county-level

diff --git a/reference/MP_i.html b/reference/MP_i.html
@@ -58,6 +58,7 @@
 <span>  alp <span class="op">=</span> <span class="fl">0.05</span>,</span>
 <span>  ipwqual <span class="op">=</span> <span class="cn">NULL</span>,</span>
 <span>  attcalc <span class="op">=</span> <span class="cn">NULL</span>,</span>
+<span>  count <span class="op">=</span> <span class="cn">NULL</span>,</span>
 <span>  DIDparams <span class="op">=</span> <span class="cn">NULL</span></span>
 <span><span class="op">)</span></span></code></pre></div>
     </div>
@@ -119,6 +120,10 @@ approximation.</p></dd>
 
 <dt id="arg-attcalc">attcalc<a class="anchor" aria-label="anchor" href="#arg-attcalc"></a></dt>
 <dd><p>similar to att but does not remove estimates when there are propensity score problems</p></dd>
+
+
+<dt id="arg-count">count<a class="anchor" aria-label="anchor" href="#arg-count"></a></dt>
+<dd><p>takes a count of the number of units in the component estimate</p></dd>
 
 
 <dt id="arg-didparams">DIDparams<a class="anchor" aria-label="anchor" href="#arg-didparams"></a></dt>
